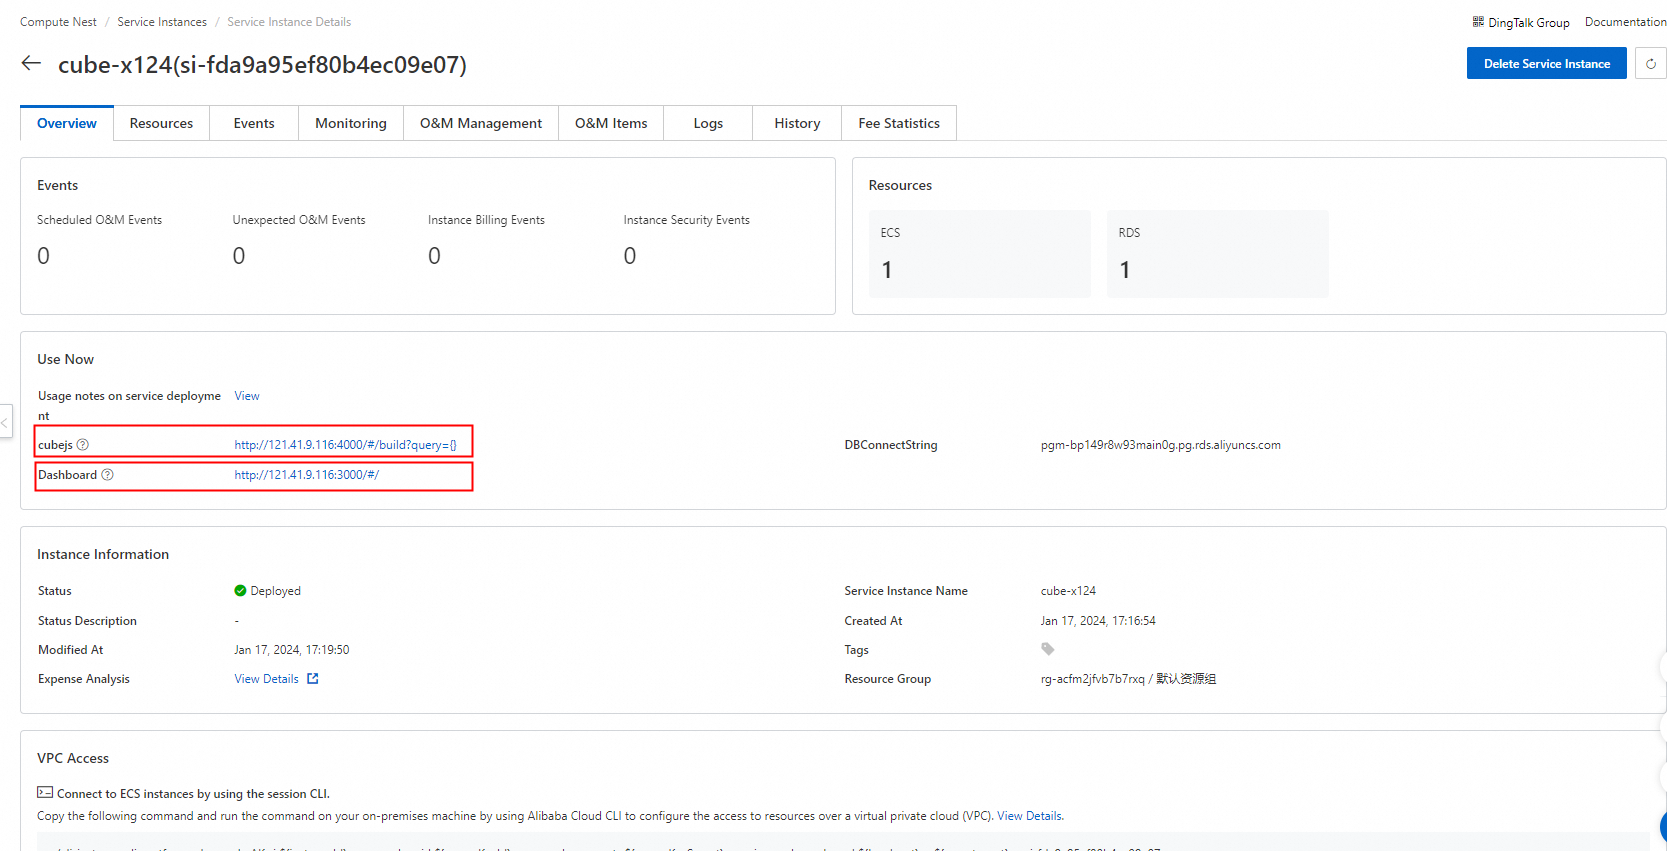
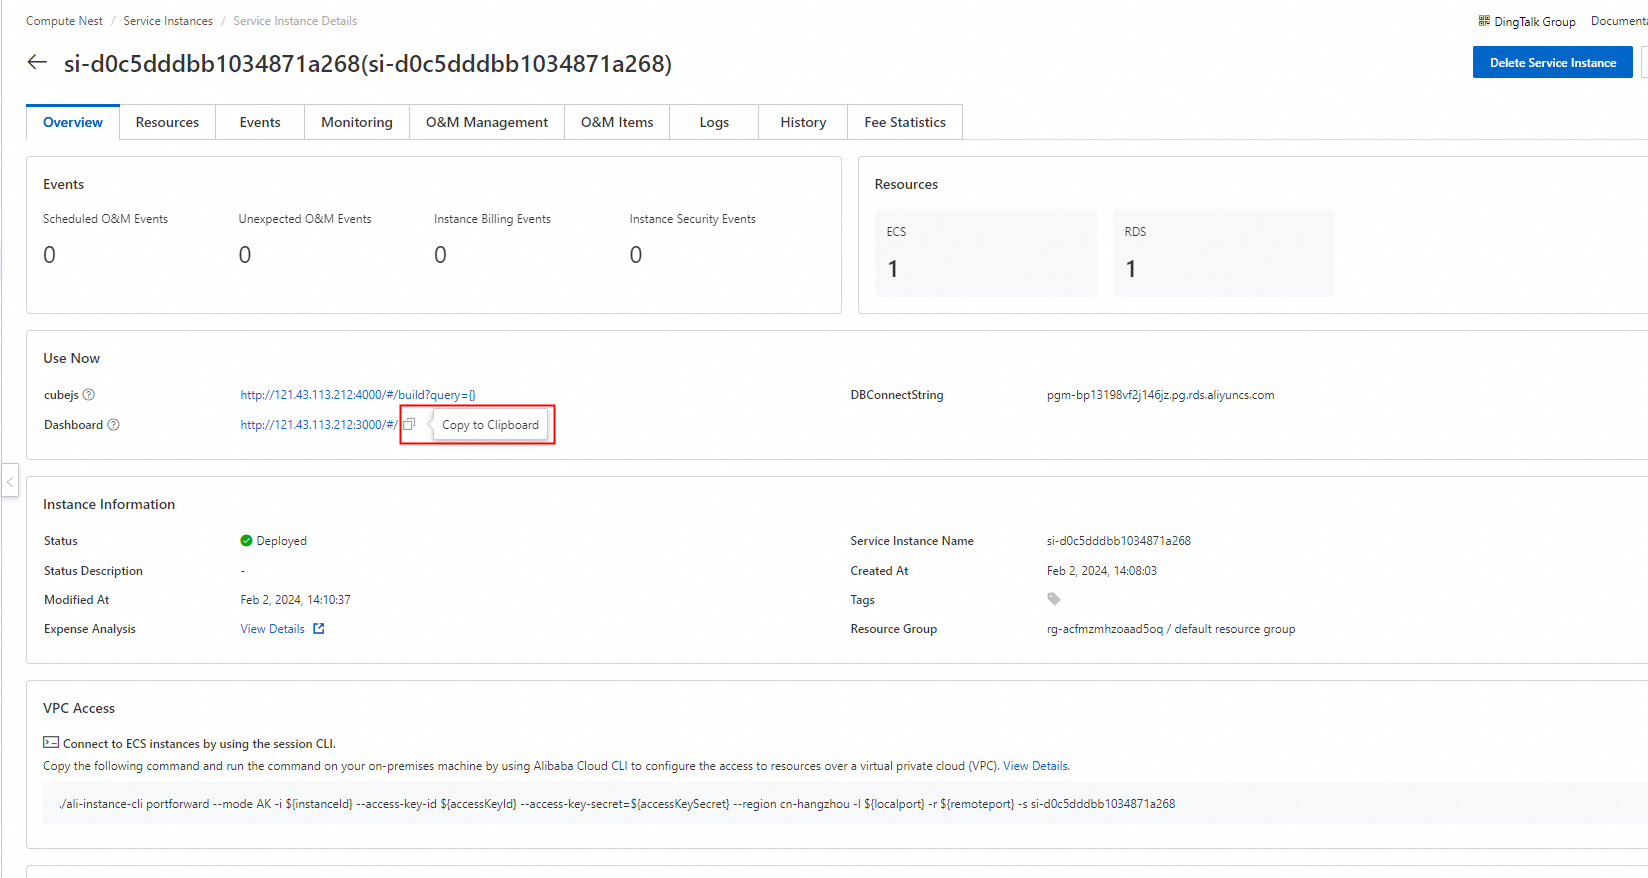
bi bashboard 修改说明文档3

diff --git a/docs/index.md b/docs/index.md
@@ -63,16 +63,11 @@ Deploying this service instance requires accessing and creating some Alibaba Clo
 
 4.Wait for deployment to complete before entering service instance management.
 
-5.Find the CubeJs and Dashboard links in the console and access them.
+5.Find CubeJs and Dashboard links in the console and copy them to the browser to access them.
 
 ![image.png](5.png)
-
-> If there is an error on the page below, please change the URL to<? Spm=*******>Manually deleting can access it normally.
-
 ![image.png](6.png)
 ![image.png](7.png)
-![image.png](8.png)
-![image.png](9.png)
 
 ## Reference documents
 https://github.com/alibabacloud-howto/opensource_with_apsaradb/blob/main/cubejs/postgresql/README.md
